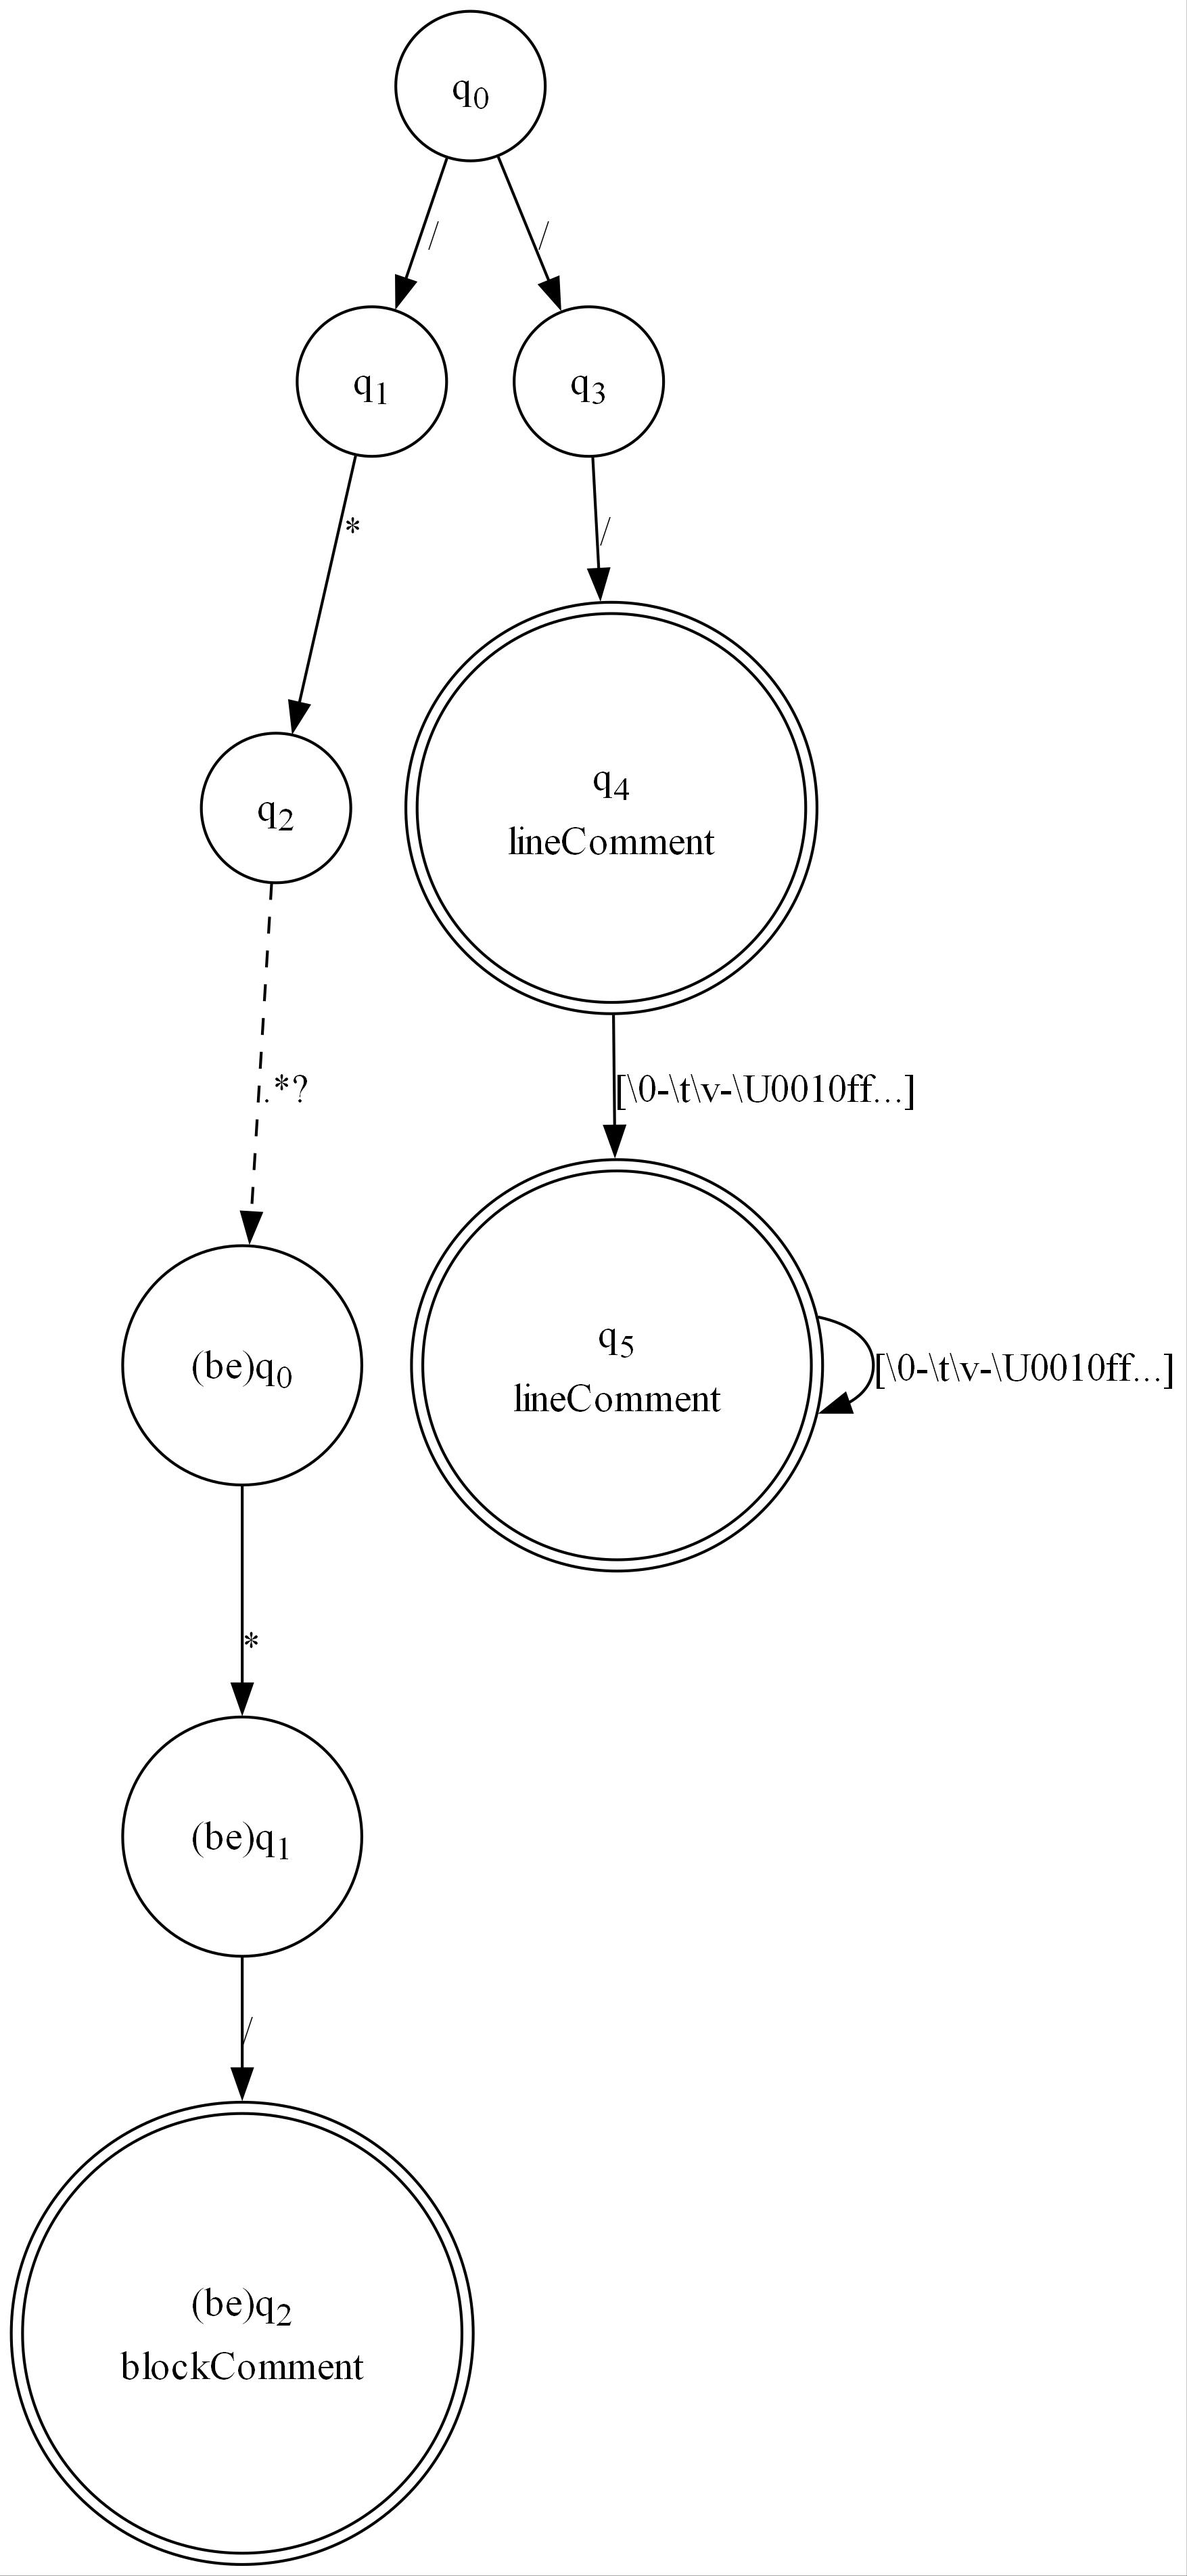
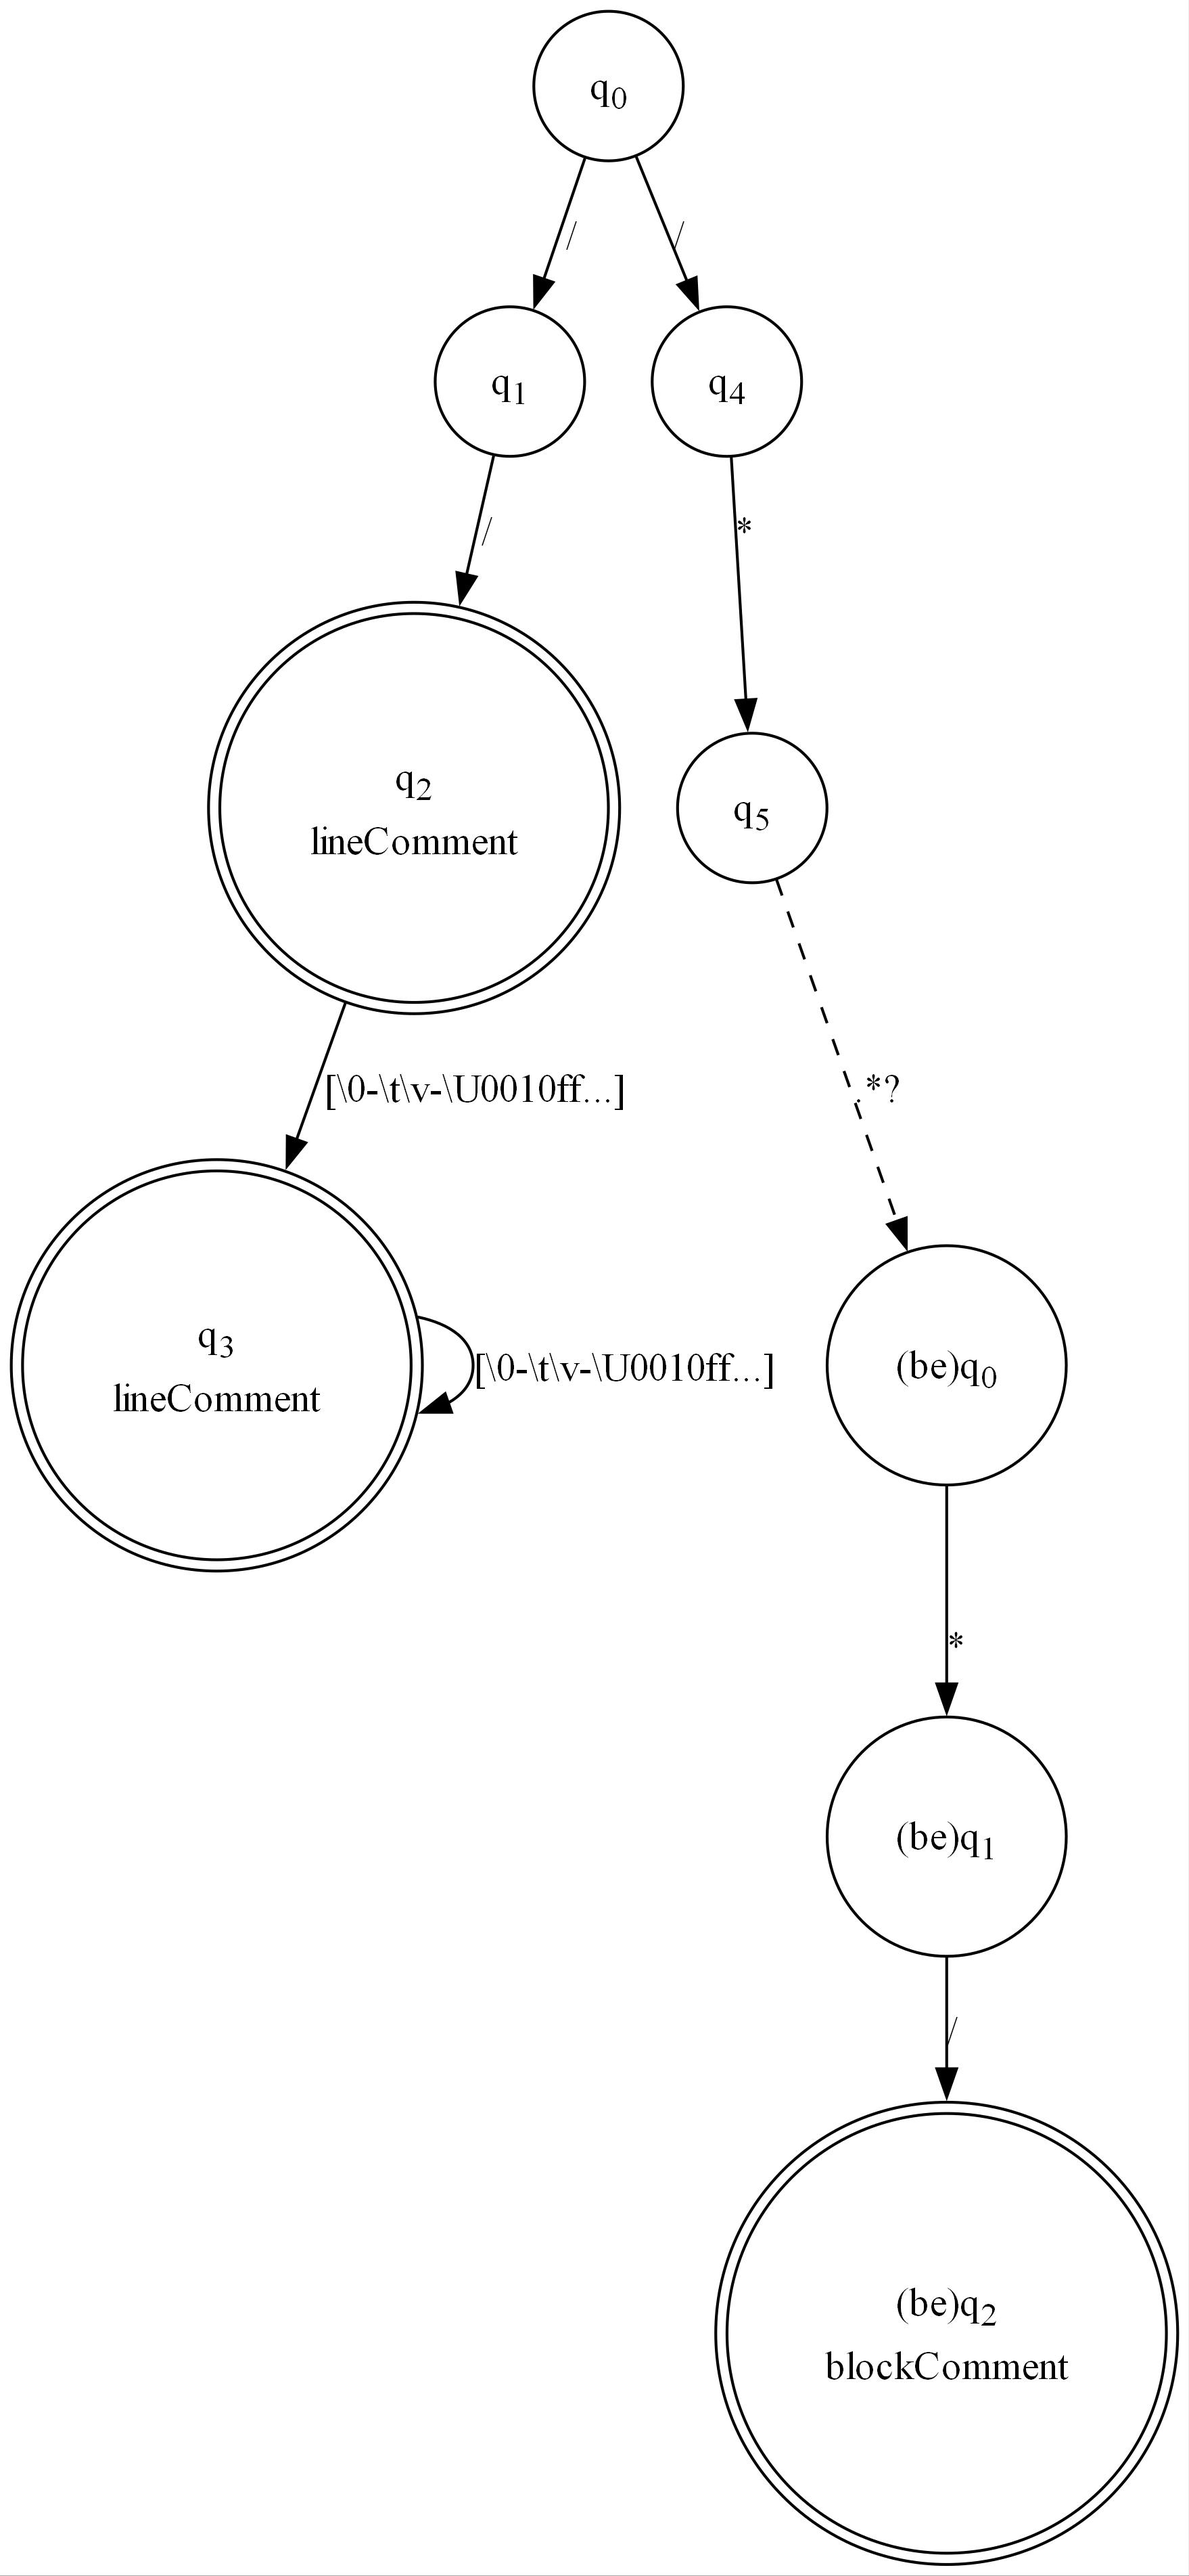
fixed:prevent duplicate transitions

diff --git a/VisualFA.brick.cs b/VisualFA.brick.cs
@@ -883,7 +883,9 @@ public
 struct FATransition{public int Min;public int Max;public FA To;public FATransition(FA to,int min=-1,int max=-1){Min=min;Max=max;To=to;}public bool IsEpsilon
 {get{return Min==-1&&Max==-1;}}public override string ToString(){if(IsEpsilon){return string.Concat("-> ",To.ToString());}if(Min==Max){return string.Concat("[",
 char.ConvertFromUtf32(Min),"]-> ",To.ToString());}return string.Concat("[",char.ConvertFromUtf32(Min),"-",char.ConvertFromUtf32(Max),"]-> ",To.ToString());
-}}
+}public bool Equals(FATransition rhs){return To==rhs.To&&Min==rhs.Min&&Max==rhs.Max;}public override int GetHashCode(){if(To==null){return Min.GetHashCode()
+^Max.GetHashCode();}return Min.GetHashCode()^Max.GetHashCode()^To.GetHashCode();}public override bool Equals(object obj){if(ReferenceEquals(obj,null))
+return false;return Equals((FATransition)obj);}}
 #endregion // FATransition
 #region FAFindFilter
 /// <summary>
@@ -999,10 +1001,10 @@ public bool IsNeutral{get{return!IsAccepting&&_transitions.Count==1&&_transition
 /// </summary>
 /// <param name="to">The state to transition to</param>
 /// <param name="compact">True to collapse epsilon transitions onto this state, otherwise false</param>
-public void AddEpsilon(FA to,bool compact=true){if(to==null)throw new ArgumentNullException(nameof(to));if(compact){if(!IsDeterministic&&!IsCompact){_transitions.AddRange(to._transitions);
-}else{for(int i=0;i<to._transitions.Count;++i){var fat=to._transitions[i];if(!fat.IsEpsilon){AddTransition(new FARange(fat.Min,fat.Max),fat.To);}else{
-AddEpsilon(fat.To,compact);}}}if(!IsAccepting&to.IsAccepting){AcceptSymbol=to.AcceptSymbol;}}else{_transitions.Add(new FATransition(to));IsCompact=false;
-IsDeterministic=false;}}/// <summary>
+public void AddEpsilon(FA to,bool compact=true){if(to==null)throw new ArgumentNullException(nameof(to));if(compact){for(int i=0;i<to._transitions.Count;
+++i){var fat=to._transitions[i];if(!fat.IsEpsilon){AddTransition(new FARange(fat.Min,fat.Max),fat.To);}else{AddEpsilon(fat.To,compact);}}if(!IsAccepting
+&to.IsAccepting){AcceptSymbol=to.AcceptSymbol;}}else{if(!_transitions.Contains(new FATransition(to))){_transitions.Add(new FATransition(to));IsCompact
+=false;IsDeterministic=false;}}}/// <summary>
 /// Adds an input transition
 /// </summary>
 /// <param name="range">The range of input codepoints to transition on</param>
@@ -1010,9 +1012,10 @@ IsDeterministic=false;}}/// <summary>
 /// <exception cref="ArgumentNullException"><paramref name="to"/> was null</exception>
 /// <exception cref="ArgumentException"><paramref name="range"/> indicated an epsilon transition</exception>
 public void AddTransition(FARange range,FA to){if(to==null)throw new ArgumentNullException(nameof(to));if(range.Min==-1&&range.Max==-1){throw new ArgumentException("Attempt to add an epsilon using the wrong method");
-}var insert=-1;for(int i=0;i<_transitions.Count;++i){var fat=_transitions[i];if(range.Max>fat.Max){insert=i;}if(IsDeterministic){if(fat.To!=to){if(range.Intersects(new
- FARange(fat.Min,fat.Max))){IsDeterministic=false;}}}if(!IsDeterministic&&range.Max<fat.Max){break;}}_transitions.Insert(insert+1,new FATransition(to,
-range.Min,range.Max));}public void ClearTransitions(){_transitions.Clear();IsDeterministic=true;IsCompact=true;}/// <summary>
+}var insert=-1;for(int i=0;i<_transitions.Count;++i){var fat=_transitions[i];if(to==fat.To){if(range.Min==fat.Min&&range.Max==fat.Max){return;}}if(range.Max>fat.Max)
+{insert=i;}if(IsDeterministic){if(fat.To!=to){if(range.Intersects(new FARange(fat.Min,fat.Max))){IsDeterministic=false;}}}if(!IsDeterministic&&range.Max
+<fat.Max){break;}}_transitions.Insert(insert+1,new FATransition(to,range.Min,range.Max));}public void ClearTransitions(){_transitions.Clear();IsDeterministic
+=true;IsCompact=true;}/// <summary>
 /// Ensures that the machine has no incoming transitions to the starting state, as well as only one final state.
 /// </summary>
 /// <param name="start">The start state, in case a new one needs to be created.</param>

diff --git a/VisualFA/FA.cs b/VisualFA/FA.cs
@@ -233,6 +233,23 @@ namespace VisualFA
 			}
 			return string.Concat("[", char.ConvertFromUtf32(Min),"-", char.ConvertFromUtf32(Max), "]-> ", To.ToString());
 		}
+		public bool Equals(FATransition rhs)
+		{
+			return To == rhs.To && Min == rhs.Min && Max == rhs.Max;
+		}
+		public override int GetHashCode()
+		{
+			if(To==null)
+			{
+				return Min.GetHashCode() ^ Max.GetHashCode();
+			}
+			return Min.GetHashCode() ^ Max.GetHashCode() ^ To.GetHashCode();
+		}
+		public override bool Equals(object obj)
+		{
+			if (ReferenceEquals(obj, null)) return false;
+			return Equals((FATransition)obj);
+		}
 	}
 	#endregion // FATransition
 	#region FAFindFilter
@@ -416,24 +433,20 @@ namespace VisualFA
 			if(to==null) throw new ArgumentNullException(nameof(to));
 			if (compact)
 			{
-				if (!IsDeterministic && !IsCompact)
+				
+				for (int i = 0; i < to._transitions.Count; ++i)
 				{
-					_transitions.AddRange(to._transitions);
-				} else
-				{
-					for (int i = 0; i < to._transitions.Count; ++i)
+					var fat = to._transitions[i];
+					if (!fat.IsEpsilon)
 					{
-						var fat = to._transitions[i];
-						if (!fat.IsEpsilon)
-						{
-							AddTransition(new FARange(fat.Min, fat.Max), fat.To);
-						}
-						else
-						{
-							AddEpsilon(fat.To, compact);
-						}
+						AddTransition(new FARange(fat.Min, fat.Max), fat.To);
+					}
+					else
+					{
+						AddEpsilon(fat.To, compact);
 					}
 				}
+				
 				if(!IsAccepting & to.IsAccepting)
 				{
 					AcceptSymbol = to.AcceptSymbol;
@@ -441,9 +454,12 @@ namespace VisualFA
 			}
 			else
 			{
-				_transitions.Add(new FATransition(to));
-				IsCompact = false;
-				IsDeterministic = false;
+				if (!_transitions.Contains(new FATransition(to)))
+				{
+					_transitions.Add(new FATransition(to));
+					IsCompact = false;
+					IsDeterministic = false;
+				}
 			}
 			
 		}
@@ -465,7 +481,14 @@ namespace VisualFA
 			for (int i = 0; i < _transitions.Count; ++i)
 			{
 				var fat = _transitions[i];
-				if(range.Max>fat.Max)
+				if (to == fat.To)
+				{
+					if(range.Min==fat.Min && range.Max==fat.Max)
+					{
+						return;
+					}
+				}
+				if (range.Max>fat.Max)
 				{
 					insert = i;
 				}

diff --git a/SimpleStuff/Program.cs b/SimpleStuff/Program.cs
@@ -45,7 +45,8 @@ FA lexer = FA.ToLexer(tokens,true);
 // usually okay on states other than the root.
 
 // create an expanded NFA
-FA nfa = FA.Parse("a+", 0, false);
+FA nfa = FA.Parse("(a+)?", 0);
+Console.WriteLine("q0 trans count {0}", nfa.Transitions.Count);
 // we're going to show the
 // subset construction in
 // the graph. ToMinimuzedDfa()
